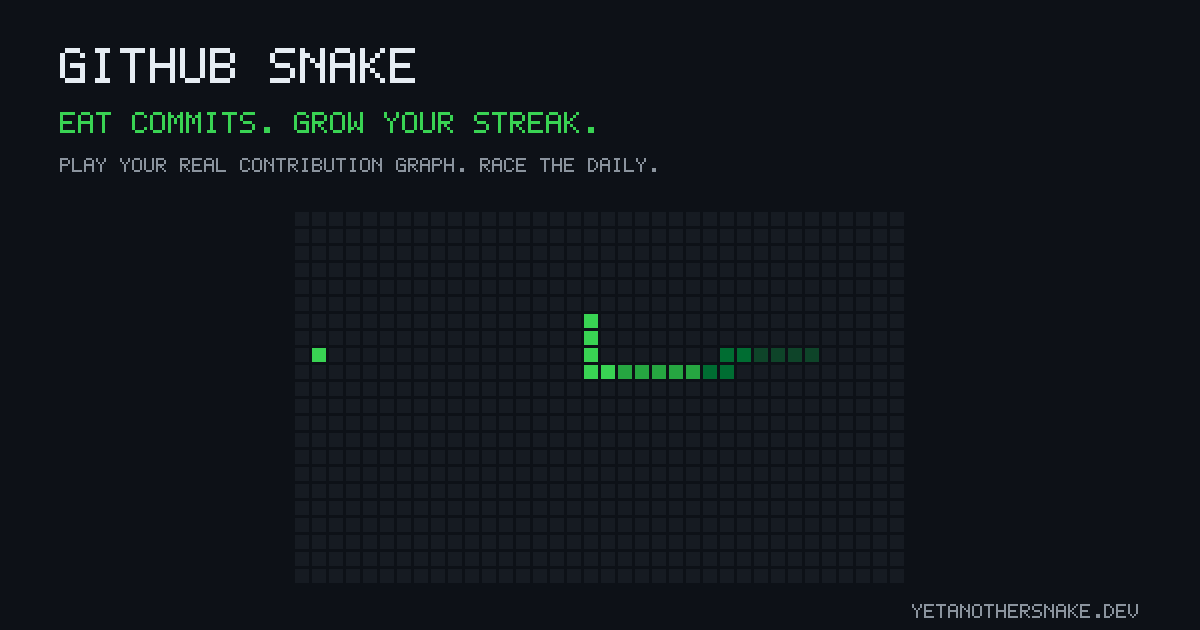
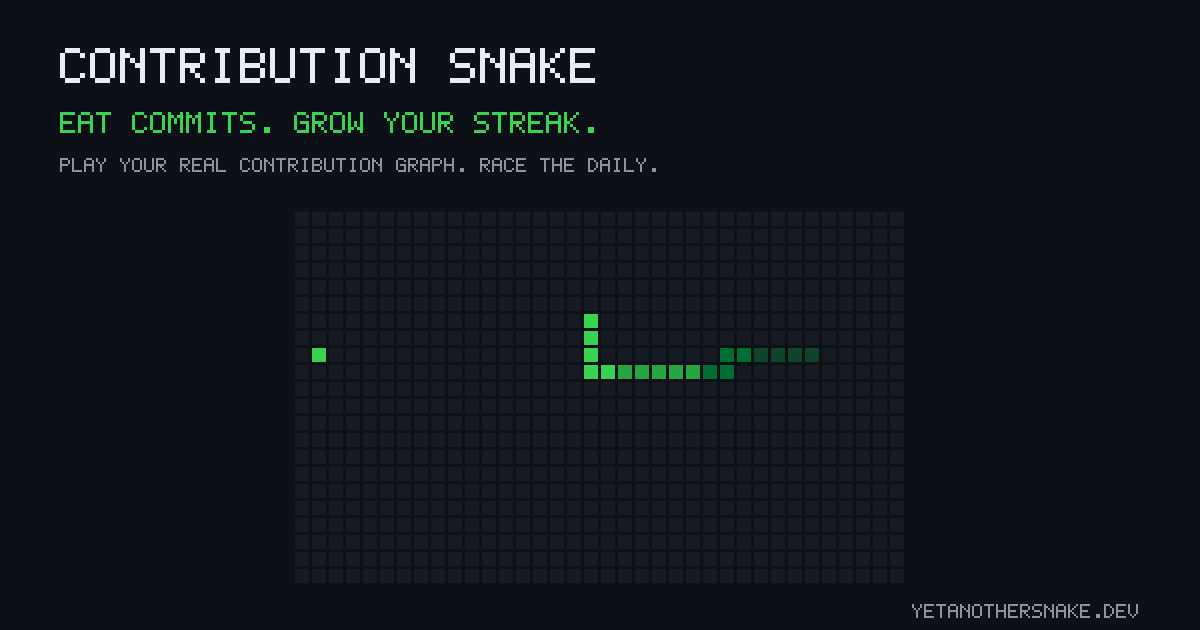
Rename the game to "Contribution Snake" (#5)
Rebrand every user-facing "GitHub Snake" occurrence to "Contribution
Snake": page/OG/Twitter titles, in-game overlay title, PWA manifest
name, favicon label, share card + share text, replay share page title,
and the server-rendered OG image (regenerated public/og-image.png).

Internal localStorage keys (gh-snake-*) are left unchanged so existing
players keep their saved high scores, themes, and names. Bumps the
service-worker cache to gh-snake-v3 so returning visitors pick up the
new, non-hashed og-image.png and renamed assets.

Changed region(s): [[0.0617, 0.0603, 0.4933, 0.1508]]

diff --git a/src/share.js b/src/share.js
@@ -53,7 +53,7 @@ export function buildShareCard({ game, theme, modeLabel, username }) {
   ctx.font = `bold 44px ${FONT}`;
   ctx.textAlign = 'left';
   ctx.textBaseline = 'top';
-  ctx.fillText('GitHub Snake', 64, 52);
+  ctx.fillText('Contribution Snake', 64, 52);
   ctx.font = `26px ${FONT}`;
   ctx.fillStyle = theme.textMuted;
   ctx.fillText(username ? `${modeLabel} · @${username}` : modeLabel, 66, 112);
@@ -87,7 +87,7 @@ export function buildShareCard({ game, theme, modeLabel, username }) {
   return canvas;
 }
 
-export async function downloadCard(canvas, filename = 'github-snake-run.png') {
+export async function downloadCard(canvas, filename = 'contribution-snake-run.png') {
   const blob = await new Promise((resolve) => canvas.toBlob(resolve, 'image/png'));
   if (!blob) return;
   const url = URL.createObjectURL(blob);
@@ -126,7 +126,7 @@ export async function nativeShare({ text, url, canvas }) {
     if (canvas && navigator.canShare) {
       const blob = await new Promise((res) => canvas.toBlob(res, 'image/png'));
       if (blob) {
-        const file = new File([blob], 'github-snake.png', { type: 'image/png' });
+        const file = new File([blob], 'contribution-snake.png', { type: 'image/png' });
         if (navigator.canShare({ files: [file] })) data.files = [file];
       }
     }
@@ -140,7 +140,7 @@ export async function nativeShare({ text, url, canvas }) {
 export function shareText({ game, mode, day, rank, username }) {
   const rankTag = rank ? ` · #${rank}${mode === 'daily' ? ' today' : ''}` : '';
   if (mode === 'daily') {
-    return `GitHub Snake Daily ${day} — ${game.score} contributions, ${game.bestStreak} best streak${rankTag}`;
+    return `Contribution Snake Daily ${day} — ${game.score} contributions, ${game.bestStreak} best streak${rankTag}`;
   }
   if (mode === 'graph') {
     const pct = game.totalCells
@@ -151,5 +151,5 @@ export function shareText({ game, mode, day, rank, username }) {
       ? `I ate all of ${who} — ${game.score} points. Think you can too?`
       : `I ate ${pct}% of ${who} — ${game.score} points. Think you can beat that?`;
   }
-  return `GitHub Snake — ${game.score} contributions, ${game.bestStreak} best streak${rankTag}`;
+  return `Contribution Snake — ${game.score} contributions, ${game.bestStreak} best streak${rankTag}`;
 }

diff --git a/index.html b/index.html
@@ -3,14 +3,14 @@
 <head>
   <meta charset="UTF-8">
   <meta name="viewport" content="width=device-width, initial-scale=1.0">
-  <title>GitHub Snake — a contribution-graph snake game</title>
+  <title>Contribution Snake — play snake on any GitHub contribution graph</title>
   <meta name="description" content="A snake game themed around the GitHub contribution graph. Play your real contributions, race the daily challenge, and climb the leaderboard.">
   <meta name="theme-color" content="#0d1117">
   <meta name="color-scheme" content="dark light">
 
   <!-- Open Graph -->
   <meta property="og:type" content="website">
-  <meta property="og:title" content="GitHub Snake">
+  <meta property="og:title" content="Contribution Snake">
   <meta property="og:description" content="A snake game themed around the GitHub contribution graph. Play your real contributions, race the daily challenge, and climb the leaderboard.">
   <meta property="og:url" content="https://yetanothersnake.dev/">
   <meta property="og:image" content="https://yetanothersnake.dev/og-image.png">
@@ -19,7 +19,7 @@
 
   <!-- Twitter -->
   <meta name="twitter:card" content="summary_large_image">
-  <meta name="twitter:title" content="GitHub Snake">
+  <meta name="twitter:title" content="Contribution Snake">
   <meta name="twitter:description" content="A snake game themed around the GitHub contribution graph. Play your real contributions, race the daily challenge, and climb the leaderboard.">
   <meta name="twitter:image" content="https://yetanothersnake.dev/og-image.png">
 
@@ -68,7 +68,7 @@
 
       <div class="overlay" id="overlay">
         <div class="overlay-inner">
-        <div class="overlay-title" id="overlay-title">GitHub Snake</div>
+        <div class="overlay-title" id="overlay-title">Contribution Snake</div>
         <div class="overlay-sub" id="overlay-sub">Eat commits. Grow your streak.</div>
         <div class="game-over-stats" id="over-stats" hidden></div>
 

diff --git a/server/ogimage.js b/server/ogimage.js
@@ -109,7 +109,7 @@ export function renderOgImage({ final, name, score, mode, day }) {
   const png = new PNG({ width: W, height: H });
   rect(png, 0, 0, W, H, C.bg);
 
-  drawText(png, 'GITHUB SNAKE', 60, 48, 5, C.text);
+  drawText(png, 'CONTRIBUTION SNAKE', 60, 48, 5, C.text);
   const nameEnd = drawText(png, name, 60, 108, 4, C.accent);
   drawText(png, ` - ${score} PTS`, nameEnd, 108, 4, C.text);
   const modeLine = mode === 'daily' ? `DAILY ${day}` : 'CLASSIC';
@@ -149,7 +149,7 @@ export function renderHomeOgImage(staged) {
   const png = new PNG({ width: W, height: H });
   rect(png, 0, 0, W, H, C.bg);
 
-  drawText(png, 'GITHUB SNAKE', 60, 48, 5, C.text);
+  drawText(png, 'CONTRIBUTION SNAKE', 60, 48, 5, C.text);
   drawText(png, 'EAT COMMITS. GROW YOUR STREAK.', 60, 112, 3, C.accent);
   drawText(png, 'PLAY YOUR REAL CONTRIBUTION GRAPH. RACE THE DAILY.', 60, 158, 2, C.muted);
 

diff --git a/tests/e2e/smoke.spec.js b/tests/e2e/smoke.spec.js
@@ -5,7 +5,7 @@ import { test, expect } from '@playwright/test';
 
 test('classic run: play, die, submit, verified leaderboard entry', async ({ page }) => {
   await page.goto('/');
-  await expect(page.locator('#overlay-title')).toHaveText('GitHub Snake');
+  await expect(page.locator('#overlay-title')).toHaveText('Contribution Snake');
 
   await page.click('#btn-classic');
   // Unattended, the snake hits the wall in ~2s; death animation follows.
@@ -81,5 +81,5 @@ test('stats panel appears after a finished run', async ({ page }) => {
   await page.click('#btn-stats');
   await expect(page.locator('#stats-panel')).toContainText('games played');
   await page.click('#stats-back');
-  await expect(page.locator('#overlay-title')).toHaveText('GitHub Snake');
+  await expect(page.locator('#overlay-title')).toHaveText('Contribution Snake');
 });

diff --git a/public/sw.js b/public/sw.js
@@ -1,7 +1,7 @@
 // Offline-first service worker. Vite emits hashed asset filenames, so instead
 // of a fixed precache list we cache same-origin GETs as they're fetched.
 // API calls are never cached — the game degrades gracefully without them.
-const CACHE = 'gh-snake-v2';
+const CACHE = 'gh-snake-v3';
 
 self.addEventListener('install', (event) => {
   event.waitUntil((async () => {

diff --git a/server/sharepage.js b/server/sharepage.js
@@ -5,7 +5,7 @@ const esc = (s) => String(s).replace(/[&<>"']/g, (c) => (
 ));
 
 export function renderSharePage({ id, name, score, mode, day, origin }) {
-  const title = `${name} scored ${score} in GitHub Snake`;
+  const title = `${name} scored ${score} in Contribution Snake`;
   const modeLine = mode === 'daily' ? `Daily challenge, ${day}` : 'Classic mode';
   const description = `${modeLine}. Watch the replay and try to beat it.`;
   const image = `${origin}/api/og/${id}.png`;

diff --git a/src/main.js b/src/main.js
@@ -202,7 +202,7 @@ function showStartScreen() {
   const localBest = bestLocalRun();
   const stats = loadStats();
   showOverlay(
-    'GitHub Snake',
+    'Contribution Snake',
     best > 0 ? `Eat commits. Grow your streak. Best: ${best}.` : 'Eat commits. Grow your streak.',
     ['mode-buttons', ...(serverOk ? ['btn-leaderboard'] : []),
       ...(localBest ? ['btn-watch-best'] : []),

diff --git a/README.md b/README.md
@@ -1,4 +1,4 @@
-# GitHub Snake
+# Contribution Snake
 
 A snake game themed around the GitHub contribution graph — now with a backend. Eat commits on a classic board, race everyone on the **daily challenge**, or type in a GitHub username and **play a real contribution graph**: committed days are the food, weighted by intensity.
 